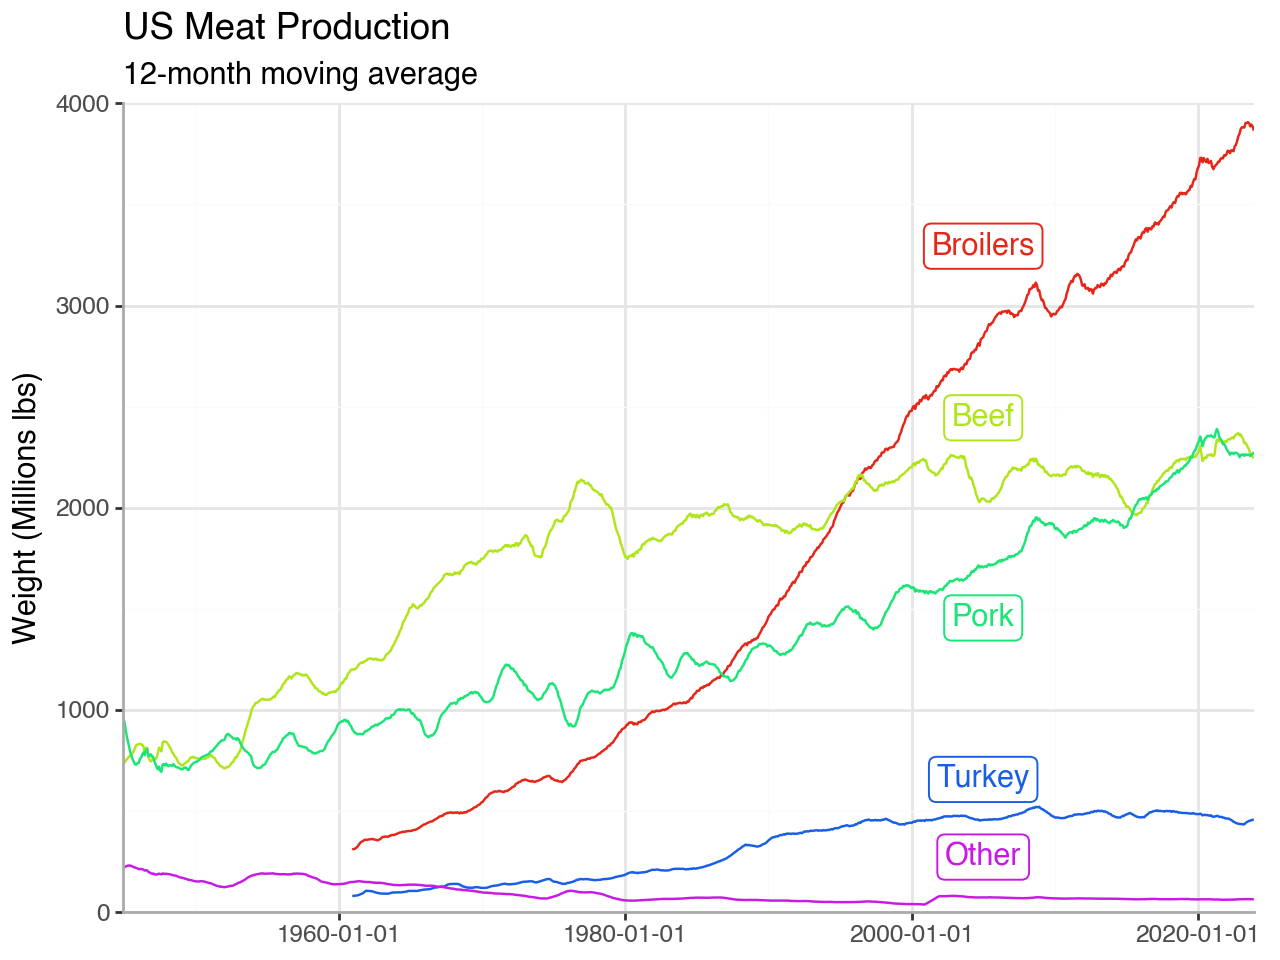
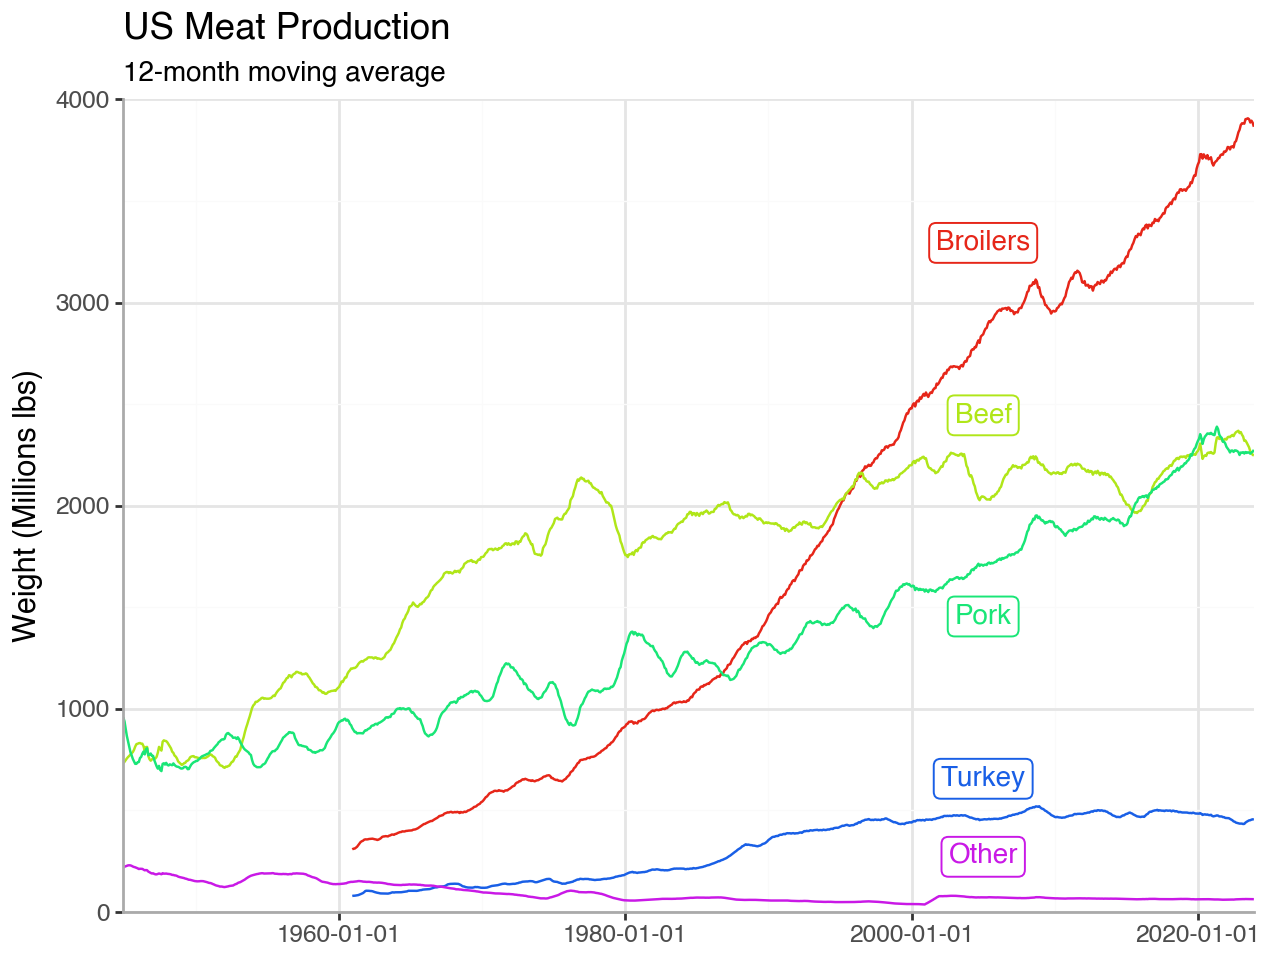
Built site for gh-pages

diff --git a/posts/ggplot2-tips/categories-with-ordering.html b/posts/ggplot2-tips/categories-with-ordering.html
@@ -362,7 +362,12 @@ pre > code.sourceCode > span > a:first-child::before { text-decoration: underlin
 </table>
 <p>The rolling average is a relatively easy one:</p>
 <div id="cell-9" class="cell" data-execution_count="3">
-<div class="sourceCode cell-code" id="cb4"><pre class="sourceCode python code-with-copy"><code class="sourceCode python"><span id="cb4-1"><a href="#cb4-1" aria-hidden="true" tabindex="-1"></a>meat[<span class="st">'weight_rolling'</span>] <span class="op">=</span> meat.sort_values(<span class="st">'date'</span>).groupby(<span class="st">'meat_type'</span>)[<span class="st">'weight_M_lbs'</span>].transform(<span class="kw">lambda</span> x: x.rolling(<span class="dv">12</span>).mean())</span></code><button title="Copy to Clipboard" class="code-copy-button"><i class="bi"></i></button></pre></div>
+<div class="sourceCode cell-code" id="cb4"><pre class="sourceCode python code-with-copy"><code class="sourceCode python"><span id="cb4-1"><a href="#cb4-1" aria-hidden="true" tabindex="-1"></a>meat[<span class="st">'weight_rolling'</span>] <span class="op">=</span> (</span>
+<span id="cb4-2"><a href="#cb4-2" aria-hidden="true" tabindex="-1"></a>    meat</span>
+<span id="cb4-3"><a href="#cb4-3" aria-hidden="true" tabindex="-1"></a>    .sort_values(<span class="st">'date'</span>)</span>
+<span id="cb4-4"><a href="#cb4-4" aria-hidden="true" tabindex="-1"></a>    .groupby(<span class="st">'meat_type'</span>)[<span class="st">'weight_M_lbs'</span>]</span>
+<span id="cb4-5"><a href="#cb4-5" aria-hidden="true" tabindex="-1"></a>    .transform(<span class="kw">lambda</span> x: x.rolling(<span class="dv">12</span>).mean())</span>
+<span id="cb4-6"><a href="#cb4-6" aria-hidden="true" tabindex="-1"></a>)</span></code><button title="Copy to Clipboard" class="code-copy-button"><i class="bi"></i></button></pre></div>
 </div>
 <div id="cell-10" class="cell" data-execution_count="4">
 <div class="sourceCode cell-code" id="cb5"><pre class="sourceCode python code-with-copy"><code class="sourceCode python"><span id="cb5-1"><a href="#cb5-1" aria-hidden="true" tabindex="-1"></a>(</span>
@@ -388,10 +393,18 @@ pre > code.sourceCode > span > a:first-child::before { text-decoration: underlin
 </div>
 <p>Now let’s lump the other categories below the top 5 into “other”. We will redo our moving averages after combining (otherwise we can get weird zero issues as we combine <code>NA</code> and ordinary values)</p>
 <div id="cell-12" class="cell" data-execution_count="5">
-<div class="sourceCode cell-code" id="cb7"><pre class="sourceCode python code-with-copy"><code class="sourceCode python"><span id="cb7-1"><a href="#cb7-1" aria-hidden="true" tabindex="-1"></a>meat[<span class="st">'meat_type'</span>] <span class="op">=</span> meat[<span class="st">'meat_type'</span>].<span class="bu">apply</span>(<span class="kw">lambda</span> meat_type: meat_type <span class="cf">if</span> meat_type <span class="kw">in</span> {<span class="st">'beef'</span>, <span class="st">'pork'</span>, <span class="st">'broilers'</span>, <span class="st">'turkey'</span>} <span class="cf">else</span> <span class="st">'other'</span>)</span>
-<span id="cb7-2"><a href="#cb7-2" aria-hidden="true" tabindex="-1"></a>meat_simple <span class="op">=</span> meat.groupby([<span class="st">'date'</span>, <span class="st">'meat_type'</span>])[<span class="st">'weight_M_lbs'</span>].<span class="bu">sum</span>().reset_index()</span>
-<span id="cb7-3"><a href="#cb7-3" aria-hidden="true" tabindex="-1"></a>meat_simple[<span class="st">'weight_rolling'</span>] <span class="op">=</span> meat_simple.sort_values(<span class="st">'date'</span>).groupby(<span class="st">'meat_type'</span>)[<span class="st">'weight_M_lbs'</span>].transform(<span class="kw">lambda</span> x: x.rolling(<span class="dv">12</span>).mean())</span>
-<span id="cb7-4"><a href="#cb7-4" aria-hidden="true" tabindex="-1"></a>meat_simple <span class="op">=</span> meat_simple.dropna()</span></code><button title="Copy to Clipboard" class="code-copy-button"><i class="bi"></i></button></pre></div>
+<div class="sourceCode cell-code" id="cb7"><pre class="sourceCode python code-with-copy"><code class="sourceCode python"><span id="cb7-1"><a href="#cb7-1" aria-hidden="true" tabindex="-1"></a>meat[<span class="st">'meat_type'</span>] <span class="op">=</span> (</span>
+<span id="cb7-2"><a href="#cb7-2" aria-hidden="true" tabindex="-1"></a>    meat[<span class="st">'meat_type'</span>]</span>
+<span id="cb7-3"><a href="#cb7-3" aria-hidden="true" tabindex="-1"></a>    .<span class="bu">apply</span>(<span class="kw">lambda</span> meat_type: meat_type <span class="cf">if</span> meat_type <span class="kw">in</span> {<span class="st">'beef'</span>, <span class="st">'pork'</span>, <span class="st">'broilers'</span>, <span class="st">'turkey'</span>} <span class="cf">else</span> <span class="st">'other'</span>)</span>
+<span id="cb7-4"><a href="#cb7-4" aria-hidden="true" tabindex="-1"></a>)</span>
+<span id="cb7-5"><a href="#cb7-5" aria-hidden="true" tabindex="-1"></a>meat_simple <span class="op">=</span> meat.groupby([<span class="st">'date'</span>, <span class="st">'meat_type'</span>])[<span class="st">'weight_M_lbs'</span>].<span class="bu">sum</span>().reset_index()</span>
+<span id="cb7-6"><a href="#cb7-6" aria-hidden="true" tabindex="-1"></a>meat_simple[<span class="st">'weight_rolling'</span>] <span class="op">=</span> (</span>
+<span id="cb7-7"><a href="#cb7-7" aria-hidden="true" tabindex="-1"></a>    meat_simple</span>
+<span id="cb7-8"><a href="#cb7-8" aria-hidden="true" tabindex="-1"></a>    .sort_values(<span class="st">'date'</span>)</span>
+<span id="cb7-9"><a href="#cb7-9" aria-hidden="true" tabindex="-1"></a>    .groupby(<span class="st">'meat_type'</span>)[<span class="st">'weight_M_lbs'</span>]</span>
+<span id="cb7-10"><a href="#cb7-10" aria-hidden="true" tabindex="-1"></a>    .transform(<span class="kw">lambda</span> x: x.rolling(<span class="dv">12</span>).mean())</span>
+<span id="cb7-11"><a href="#cb7-11" aria-hidden="true" tabindex="-1"></a>)</span>
+<span id="cb7-12"><a href="#cb7-12" aria-hidden="true" tabindex="-1"></a>meat_simple <span class="op">=</span> meat_simple.dropna()</span></code><button title="Copy to Clipboard" class="code-copy-button"><i class="bi"></i></button></pre></div>
 </div>
 <p>This simplifies the number of lines we have to deal with</p>
 <div id="cell-14" class="cell" data-execution_count="6">
@@ -416,7 +429,11 @@ pre > code.sourceCode > span > a:first-child::before { text-decoration: underlin
 <p>Now let’s deal with the order on the legend: “other” should be at the bottom of the list. Let’s order by the popularity in 2000: * Broilers * Beef * Pork * Turkey * Other</p>
 <p>Let’s do it manually first:</p>
 <div id="cell-16" class="cell" data-execution_count="7">
-<div class="sourceCode cell-code" id="cb9"><pre class="sourceCode python code-with-copy"><code class="sourceCode python"><span id="cb9-1"><a href="#cb9-1" aria-hidden="true" tabindex="-1"></a>meat_simple[<span class="st">'meat_type'</span>] <span class="op">=</span> pd.Categorical(meat_simple[<span class="st">'meat_type'</span>], categories<span class="op">=</span>[<span class="st">'broilers'</span>, <span class="st">'beef'</span>, <span class="st">'pork'</span>, <span class="st">'turkey'</span>,<span class="st">'other'</span>], ordered<span class="op">=</span><span class="va">True</span>)</span></code><button title="Copy to Clipboard" class="code-copy-button"><i class="bi"></i></button></pre></div>
+<div class="sourceCode cell-code" id="cb9"><pre class="sourceCode python code-with-copy"><code class="sourceCode python"><span id="cb9-1"><a href="#cb9-1" aria-hidden="true" tabindex="-1"></a>meat_simple[<span class="st">'meat_type'</span>] <span class="op">=</span> pd.Categorical(</span>
+<span id="cb9-2"><a href="#cb9-2" aria-hidden="true" tabindex="-1"></a>    meat_simple[<span class="st">'meat_type'</span>], </span>
+<span id="cb9-3"><a href="#cb9-3" aria-hidden="true" tabindex="-1"></a>    categories<span class="op">=</span>[<span class="st">'broilers'</span>, <span class="st">'beef'</span>, <span class="st">'pork'</span>, <span class="st">'turkey'</span>,<span class="st">'other'</span>], </span>
+<span id="cb9-4"><a href="#cb9-4" aria-hidden="true" tabindex="-1"></a>    ordered<span class="op">=</span><span class="va">True</span></span>
+<span id="cb9-5"><a href="#cb9-5" aria-hidden="true" tabindex="-1"></a>)</span></code><button title="Copy to Clipboard" class="code-copy-button"><i class="bi"></i></button></pre></div>
 </div>
 <p>Using the <em>same code</em> as before, we now have</p>
 <div id="cell-18" class="cell" data-execution_count="8">
@@ -501,8 +518,12 @@ pre > code.sourceCode > span > a:first-child::before { text-decoration: underlin
 <span id="cb13-16"><a href="#cb13-16" aria-hidden="true" tabindex="-1"></a>    <span class="op">+</span> p9.scale_y_continuous(limits<span class="op">=</span>(<span class="dv">0</span>, <span class="dv">4000</span>), expand<span class="op">=</span>(<span class="dv">0</span>,<span class="dv">0</span>))</span>
 <span id="cb13-17"><a href="#cb13-17" aria-hidden="true" tabindex="-1"></a>    <span class="op">+</span> p9.scale_x_date(expand<span class="op">=</span>(<span class="dv">0</span>,<span class="dv">0</span>))</span>
 <span id="cb13-18"><a href="#cb13-18" aria-hidden="true" tabindex="-1"></a>    <span class="op">+</span> p9.theme_bw()</span>
-<span id="cb13-19"><a href="#cb13-19" aria-hidden="true" tabindex="-1"></a>    <span class="op">+</span> p9.theme(legend_position<span class="op">=</span>(<span class="fl">0.05</span>, <span class="fl">0.99</span>), panel_border<span class="op">=</span>p9.element_blank(), axis_line<span class="op">=</span>p9.element_line(size<span class="op">=</span><span class="dv">1</span>, color<span class="op">=</span><span class="st">'#AAAAAA'</span>))</span>
-<span id="cb13-20"><a href="#cb13-20" aria-hidden="true" tabindex="-1"></a>)</span></code><button title="Copy to Clipboard" class="code-copy-button"><i class="bi"></i></button></pre></div>
+<span id="cb13-19"><a href="#cb13-19" aria-hidden="true" tabindex="-1"></a>    <span class="op">+</span> p9.theme(</span>
+<span id="cb13-20"><a href="#cb13-20" aria-hidden="true" tabindex="-1"></a>        legend_position<span class="op">=</span>(<span class="fl">0.05</span>, <span class="fl">0.99</span>), </span>
+<span id="cb13-21"><a href="#cb13-21" aria-hidden="true" tabindex="-1"></a>        panel_border<span class="op">=</span>p9.element_blank(),</span>
+<span id="cb13-22"><a href="#cb13-22" aria-hidden="true" tabindex="-1"></a>        axis_line<span class="op">=</span>p9.element_line(size<span class="op">=</span><span class="dv">1</span>, color<span class="op">=</span><span class="st">'#AAAAAA'</span>)</span>
+<span id="cb13-23"><a href="#cb13-23" aria-hidden="true" tabindex="-1"></a>    )</span>
+<span id="cb13-24"><a href="#cb13-24" aria-hidden="true" tabindex="-1"></a>)</span></code><button title="Copy to Clipboard" class="code-copy-button"><i class="bi"></i></button></pre></div>
 <div class="cell-output cell-output-display">
 <div>
 <figure class="figure">
@@ -513,8 +534,10 @@ pre > code.sourceCode > span > a:first-child::before { text-decoration: underlin
 </div>
 <p>We could also forgo the legend and label the lines directly</p>
 <div id="cell-26" class="cell" data-execution_count="12">
-<div class="sourceCode cell-code" id="cb14"><pre class="sourceCode python code-with-copy"><code class="sourceCode python"><span id="cb14-1"><a href="#cb14-1" aria-hidden="true" tabindex="-1"></a>line_label <span class="op">=</span> meat_simple[meat_simple.date<span class="op">==</span><span class="st">'2005-01-01'</span>].copy().assign(meat_label<span class="op">=</span><span class="kw">lambda</span> x: x[<span class="st">'meat_type'</span>].<span class="bu">str</span>.title())</span>
-<span id="cb14-2"><a href="#cb14-2" aria-hidden="true" tabindex="-1"></a>line_label</span></code><button title="Copy to Clipboard" class="code-copy-button"><i class="bi"></i></button></pre></div>
+<div class="sourceCode cell-code" id="cb14"><pre class="sourceCode python code-with-copy"><code class="sourceCode python"><span id="cb14-1"><a href="#cb14-1" aria-hidden="true" tabindex="-1"></a>line_label <span class="op">=</span> meat_simple[meat_simple.date<span class="op">==</span><span class="st">'2005-01-01'</span>].copy().assign(</span>
+<span id="cb14-2"><a href="#cb14-2" aria-hidden="true" tabindex="-1"></a>    meat_label<span class="op">=</span><span class="kw">lambda</span> x: x[<span class="st">'meat_type'</span>].<span class="bu">str</span>.title()</span>
+<span id="cb14-3"><a href="#cb14-3" aria-hidden="true" tabindex="-1"></a>)</span>
+<span id="cb14-4"><a href="#cb14-4" aria-hidden="true" tabindex="-1"></a>line_label</span></code><button title="Copy to Clipboard" class="code-copy-button"><i class="bi"></i></button></pre></div>
 <div class="cell-output cell-output-display" data-execution_count="12">
 <div>
 <div>
@@ -618,10 +641,15 @@ pre > code.sourceCode > span > a:first-child::before { text-decoration: underlin
 </div>
 <p>If you don’t like the label and line overlap, you can manually manipulate the label frame. Unfortunately, the <code>nudge_y</code> does not get passed in from the mapping.</p>
 <div id="cell-29" class="cell" data-execution_count="14">
-<div class="sourceCode cell-code" id="cb16"><pre class="sourceCode python code-with-copy"><code class="sourceCode python"><span id="cb16-1"><a href="#cb16-1" aria-hidden="true" tabindex="-1"></a>line_label <span class="op">=</span> meat_simple[meat_simple.date<span class="op">==</span><span class="st">'2005-01-01'</span>].copy().assign(meat_label<span class="op">=</span><span class="kw">lambda</span> x: x[<span class="st">'meat_type'</span>].<span class="bu">str</span>.title())</span>
-<span id="cb16-2"><a href="#cb16-2" aria-hidden="true" tabindex="-1"></a>adjustments <span class="op">=</span> {<span class="st">'pork'</span>: <span class="op">-</span><span class="dv">450</span>, <span class="st">'broilers'</span>: <span class="dv">250</span>, <span class="st">'beef'</span>: <span class="dv">200</span>}</span>
-<span id="cb16-3"><a href="#cb16-3" aria-hidden="true" tabindex="-1"></a><span class="cf">for</span> meat, shift <span class="kw">in</span> adjustments.items():</span>
-<span id="cb16-4"><a href="#cb16-4" aria-hidden="true" tabindex="-1"></a>    line_label.loc[line_label.meat_type<span class="op">==</span>meat, <span class="st">'weight_rolling'</span>] <span class="op">+=</span> shift </span></code><button title="Copy to Clipboard" class="code-copy-button"><i class="bi"></i></button></pre></div>
+<div class="sourceCode cell-code" id="cb16"><pre class="sourceCode python code-with-copy"><code class="sourceCode python"><span id="cb16-1"><a href="#cb16-1" aria-hidden="true" tabindex="-1"></a><span class="co"># This is the same as before</span></span>
+<span id="cb16-2"><a href="#cb16-2" aria-hidden="true" tabindex="-1"></a>line_label <span class="op">=</span> meat_simple[meat_simple.date<span class="op">==</span><span class="st">'2005-01-01'</span>].copy().assign(</span>
+<span id="cb16-3"><a href="#cb16-3" aria-hidden="true" tabindex="-1"></a>    meat_label<span class="op">=</span><span class="kw">lambda</span> x: x[<span class="st">'meat_type'</span>].<span class="bu">str</span>.title()</span>
+<span id="cb16-4"><a href="#cb16-4" aria-hidden="true" tabindex="-1"></a>)</span>
+<span id="cb16-5"><a href="#cb16-5" aria-hidden="true" tabindex="-1"></a><span class="co"># Move away from the lines / each other, taking the nudge_y into account</span></span>
+<span id="cb16-6"><a href="#cb16-6" aria-hidden="true" tabindex="-1"></a><span class="co"># This is a "guess and check" for finalized figures</span></span>
+<span id="cb16-7"><a href="#cb16-7" aria-hidden="true" tabindex="-1"></a>adjustments <span class="op">=</span> {<span class="st">'pork'</span>: <span class="op">-</span><span class="dv">450</span>, <span class="st">'broilers'</span>: <span class="dv">250</span>, <span class="st">'beef'</span>: <span class="dv">200</span>}</span>
+<span id="cb16-8"><a href="#cb16-8" aria-hidden="true" tabindex="-1"></a><span class="cf">for</span> meat, shift <span class="kw">in</span> adjustments.items():</span>
+<span id="cb16-9"><a href="#cb16-9" aria-hidden="true" tabindex="-1"></a>    line_label.loc[line_label.meat_type<span class="op">==</span>meat, <span class="st">'weight_rolling'</span>] <span class="op">+=</span> shift </span></code><button title="Copy to Clipboard" class="code-copy-button"><i class="bi"></i></button></pre></div>
 </div>
 <div id="cell-30" class="cell" data-execution_count="15">
 <div class="sourceCode cell-code" id="cb17"><pre class="sourceCode python code-with-copy"><code class="sourceCode python"><span id="cb17-1"><a href="#cb17-1" aria-hidden="true" tabindex="-1"></a>(</span>
@@ -642,16 +670,18 @@ pre > code.sourceCode > span > a:first-child::before { text-decoration: underlin
 <span id="cb17-16"><a href="#cb17-16" aria-hidden="true" tabindex="-1"></a>    <span class="op">+</span> p9.geom_label(</span>
 <span id="cb17-17"><a href="#cb17-17" aria-hidden="true" tabindex="-1"></a>        data<span class="op">=</span>line_label,</span>
 <span id="cb17-18"><a href="#cb17-18" aria-hidden="true" tabindex="-1"></a>        mapping<span class="op">=</span>p9.aes(label<span class="op">=</span><span class="st">'meat_label'</span>),</span>
-<span id="cb17-19"><a href="#cb17-19" aria-hidden="true" tabindex="-1"></a>        nudge_y<span class="op">=</span><span class="dv">200</span></span>
-<span id="cb17-20"><a href="#cb17-20" aria-hidden="true" tabindex="-1"></a>    )</span>
-<span id="cb17-21"><a href="#cb17-21" aria-hidden="true" tabindex="-1"></a>    <span class="op">+</span> p9.scale_y_continuous(limits<span class="op">=</span>(<span class="dv">0</span>, <span class="dv">4000</span>), expand<span class="op">=</span>(<span class="dv">0</span>,<span class="dv">0</span>))</span>
-<span id="cb17-22"><a href="#cb17-22" aria-hidden="true" tabindex="-1"></a>    <span class="op">+</span> p9.scale_x_date(expand<span class="op">=</span>(<span class="dv">0</span>,<span class="dv">0</span>))</span>
-<span id="cb17-23"><a href="#cb17-23" aria-hidden="true" tabindex="-1"></a>    <span class="op">+</span> p9.theme_bw()</span>
-<span id="cb17-24"><a href="#cb17-24" aria-hidden="true" tabindex="-1"></a>    <span class="op">+</span> p9.theme(</span>
-<span id="cb17-25"><a href="#cb17-25" aria-hidden="true" tabindex="-1"></a>        panel_border<span class="op">=</span>p9.element_blank(), </span>
-<span id="cb17-26"><a href="#cb17-26" aria-hidden="true" tabindex="-1"></a>        axis_line<span class="op">=</span>p9.element_line(size<span class="op">=</span><span class="dv">1</span>, color<span class="op">=</span><span class="st">'#AAAAAA'</span>),</span>
-<span id="cb17-27"><a href="#cb17-27" aria-hidden="true" tabindex="-1"></a>    )</span>
-<span id="cb17-28"><a href="#cb17-28" aria-hidden="true" tabindex="-1"></a>)</span></code><button title="Copy to Clipboard" class="code-copy-button"><i class="bi"></i></button></pre></div>
+<span id="cb17-19"><a href="#cb17-19" aria-hidden="true" tabindex="-1"></a>        nudge_y<span class="op">=</span><span class="dv">200</span>,</span>
+<span id="cb17-20"><a href="#cb17-20" aria-hidden="true" tabindex="-1"></a>        size<span class="op">=</span><span class="dv">10</span></span>
+<span id="cb17-21"><a href="#cb17-21" aria-hidden="true" tabindex="-1"></a>    )</span>
+<span id="cb17-22"><a href="#cb17-22" aria-hidden="true" tabindex="-1"></a>    <span class="op">+</span> p9.scale_y_continuous(limits<span class="op">=</span>(<span class="dv">0</span>, <span class="dv">4000</span>), expand<span class="op">=</span>(<span class="dv">0</span>,<span class="dv">0</span>))</span>
+<span id="cb17-23"><a href="#cb17-23" aria-hidden="true" tabindex="-1"></a>    <span class="op">+</span> p9.scale_x_date(expand<span class="op">=</span>(<span class="dv">0</span>,<span class="dv">0</span>))</span>
+<span id="cb17-24"><a href="#cb17-24" aria-hidden="true" tabindex="-1"></a>    <span class="op">+</span> p9.theme_bw()</span>
+<span id="cb17-25"><a href="#cb17-25" aria-hidden="true" tabindex="-1"></a>    <span class="op">+</span> p9.theme(</span>
+<span id="cb17-26"><a href="#cb17-26" aria-hidden="true" tabindex="-1"></a>        panel_border<span class="op">=</span>p9.element_blank(), </span>
+<span id="cb17-27"><a href="#cb17-27" aria-hidden="true" tabindex="-1"></a>        axis_line<span class="op">=</span>p9.element_line(size<span class="op">=</span><span class="dv">1</span>, color<span class="op">=</span><span class="st">'#AAAAAA'</span>),</span>
+<span id="cb17-28"><a href="#cb17-28" aria-hidden="true" tabindex="-1"></a>        plot_subtitle<span class="op">=</span>p9.element_text(size<span class="op">=</span><span class="dv">10</span>)</span>
+<span id="cb17-29"><a href="#cb17-29" aria-hidden="true" tabindex="-1"></a>    )</span>
+<span id="cb17-30"><a href="#cb17-30" aria-hidden="true" tabindex="-1"></a>)</span></code><button title="Copy to Clipboard" class="code-copy-button"><i class="bi"></i></button></pre></div>
 <div class="cell-output cell-output-display">
 <div>
 <figure class="figure">

diff --git a/ggplot-series.html b/ggplot-series.html
@@ -197,7 +197,7 @@ window.Quarto = {
 
 <div class="quarto-listing quarto-listing-container-default" id="listing-listing">
 <div class="list quarto-listing-default">
-<div class="quarto-post image-right" data-index="0" data-categories="data-vis,plotnine,gallery,categorical" data-listing-date-sort="1729440000000" data-listing-file-modified-sort="1729475845438" data-listing-date-modified-sort="NaN" data-listing-reading-time-sort="3" data-listing-word-count-sort="413">
+<div class="quarto-post image-right" data-index="0" data-categories="data-vis,plotnine,gallery,categorical" data-listing-date-sort="1729440000000" data-listing-file-modified-sort="1729476707906" data-listing-date-modified-sort="NaN" data-listing-reading-time-sort="3" data-listing-word-count-sort="413">
 <div class="body">
 <h3 class="no-anchor listing-title">
 <a href="./posts/ggplot2-tips/categories-with-ordering.html" class="no-external">Ordering categories</a>

diff --git a/blog.html b/blog.html
@@ -239,7 +239,7 @@ window.Quarto = {
     </div>
 </div>
 <div class="list quarto-listing-default">
-<div class="quarto-post image-right" data-index="0" data-categories="data-vis,plotnine,gallery,categorical" data-listing-date-sort="1729440000000" data-listing-file-modified-sort="1729475845438" data-listing-date-modified-sort="NaN" data-listing-reading-time-sort="3" data-listing-word-count-sort="413">
+<div class="quarto-post image-right" data-index="0" data-categories="data-vis,plotnine,gallery,categorical" data-listing-date-sort="1729440000000" data-listing-file-modified-sort="1729476707906" data-listing-date-modified-sort="NaN" data-listing-reading-time-sort="3" data-listing-word-count-sort="413">
 <div class="body">
 <h3 class="no-anchor listing-title">
 <a href="./posts/ggplot2-tips/categories-with-ordering.html" class="no-external">Ordering categories</a>
